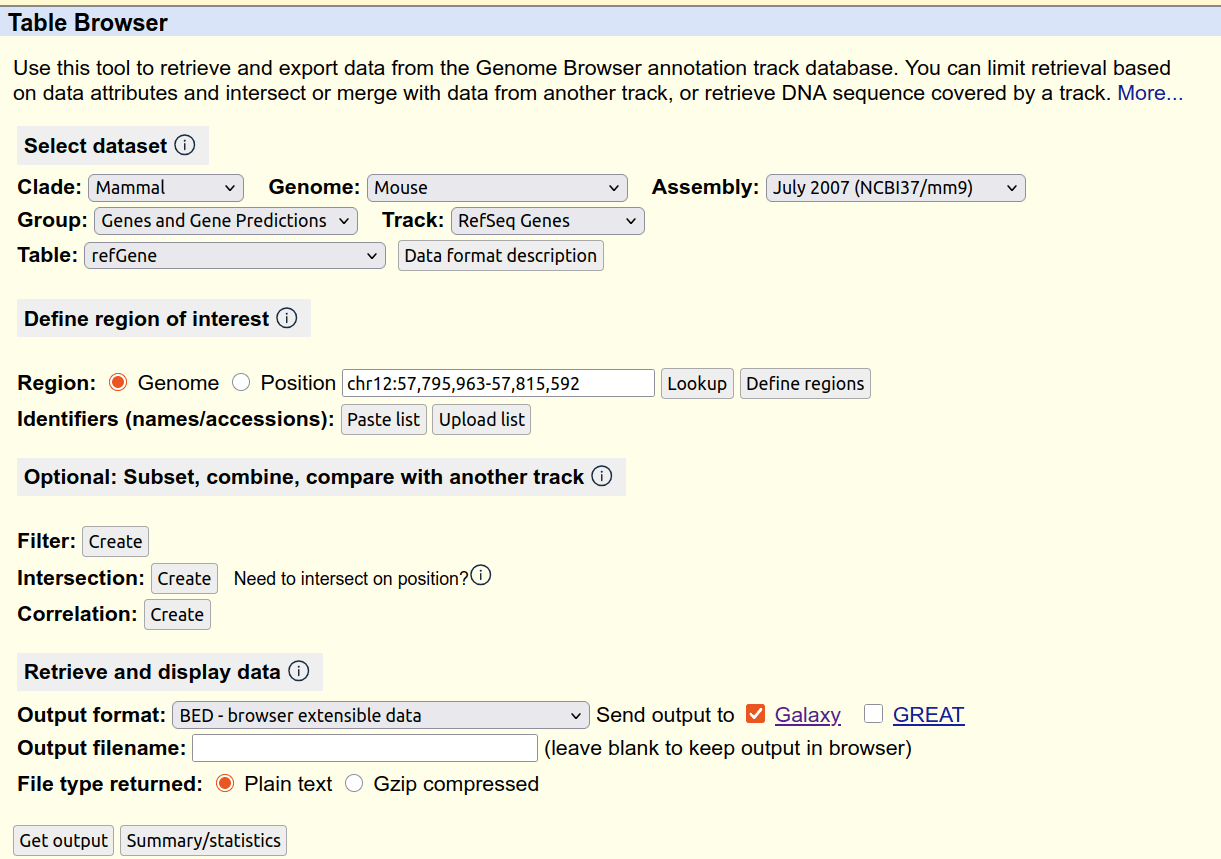
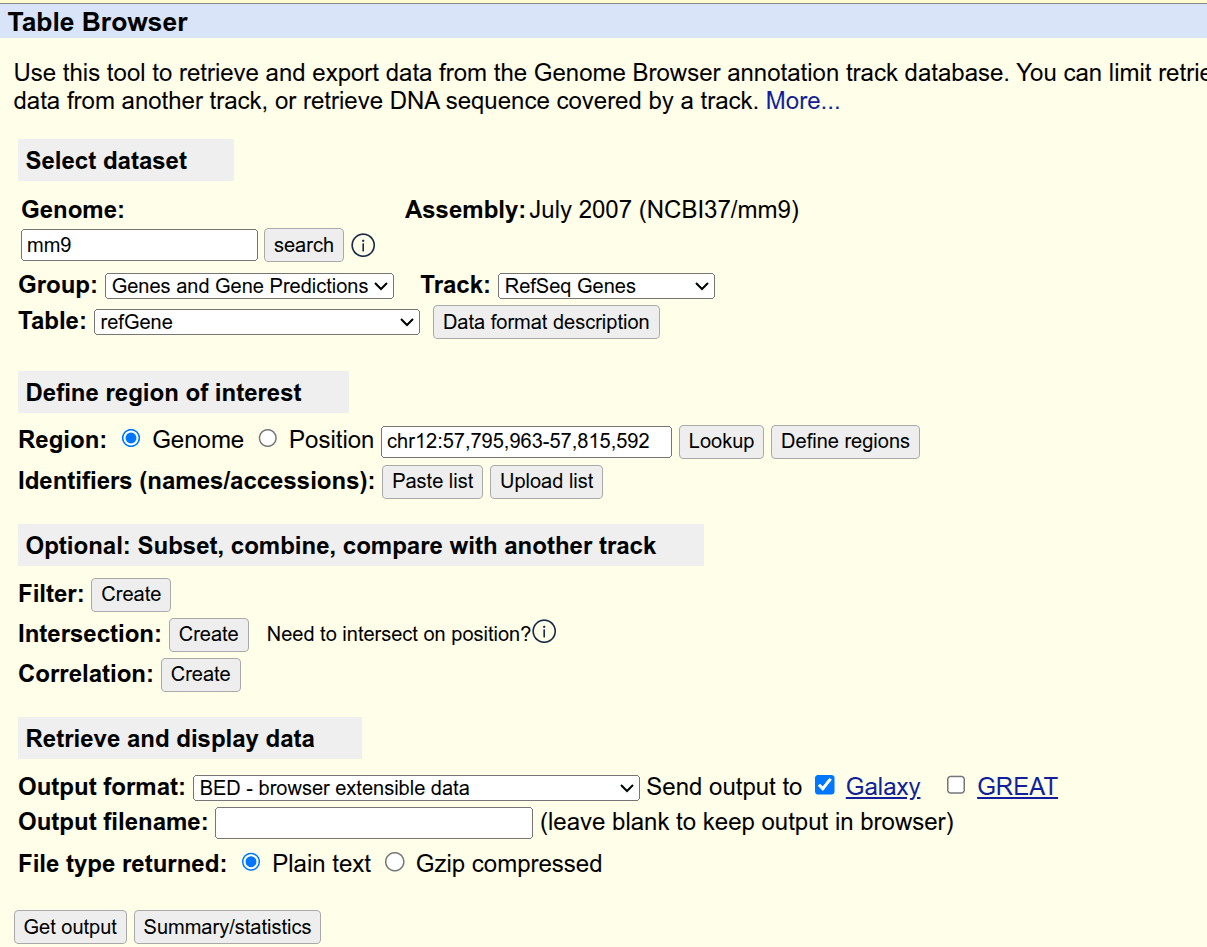
Update peaks2genes tutorial

diff --git a/topics/introduction/tutorials/galaxy-intro-peaks2genes/tutorial.md b/topics/introduction/tutorials/galaxy-intro-peaks2genes/tutorial.md
@@ -61,7 +61,7 @@ recordings:
 ---
 
 
-We stumbled upon a paper ({% cite Li2012 %}) called *"The histone acetyltransferase MOF is a key regulator of the embryonic stem cell core transcriptional network"*. The paper contains the analysis of possible target genes of an interesting protein called Mof. The targets were obtained by ChIP-seq in mice and the raw data is available through [GEO](https://www.ncbi.nlm.nih.gov/geo/query/acc.cgi?acc=GSE37268).
+We stumbled upon a paper ({% cite Li2012 %}) called *"The histone acetyltransferase MOF is a key regulator of the embryonic stem cell core transcriptional network"*. The paper contains the analysis of possible target genes of an interesting protein called Mof. The targets were obtained by ChIP-seq in mice and the raw data is available through [GEO](https://www.ncbi.nlm.nih.gov/geo/query/acc.cgi?acc=GSE37268){:target="_blank"}.
 However, the list of genes is neither in the supplement of the paper, nor part of the GEO submission.
 The closest thing we could find is a file in GEO containing a list of the regions where the signal is significantly enriched (so called *peaks*):
 
@@ -128,7 +128,7 @@ Let's start with a fresh history.
 
 > <hands-on-title>Data upload</hands-on-title>
 >
-> 1. Download the list of peak regions (the file [`GSE37268_mof3.out.hpeak.txt.gz`](https://www.ncbi.nlm.nih.gov/geo/download/?acc=GSE37268&format=file&file=GSE37268%5Fmof3%2Eout%2Ehpeak%2Etxt%2Egz)) from [GEO](https://www.ncbi.nlm.nih.gov/geo/query/acc.cgi?acc=GSE37268) to your computer
+> 1. Download the list of peak regions (the file [GSE37268_mof3.out.hpeak.txt.gz](https://www.ncbi.nlm.nih.gov/geo/download/?acc=GSE37268&format=file&file=GSE37268%5Fmof3%2Eout%2Ehpeak%2Etxt%2Egz)) from [GEO](https://www.ncbi.nlm.nih.gov/geo/query/acc.cgi?acc=GSE37268){:target="_blank"} to your computer
 > 2. Click on the upload button in the upper left of the interface
 >
 >    ![Upload data icon](../../../galaxy-interface/images/upload_button.png)
@@ -215,7 +215,7 @@ we also need a list of genes in mice, which we can obtain from UCSC.
 >
 > 3. Set the following options:
 >     - *"Clade"*: `Mammal`
->     - *"Genome"*: `Mouse`
+>     - *"Genome"*: Search for `mm9` and select `Mouse (mm9)`
 >     - *"Assembly"*: `July 2007 (NCBI37/mm9)`
 >     - *"Group"*: `Genes and Gene Predictions`
 >     - *"Track"*: `RefSeq Genes`
@@ -276,6 +276,10 @@ Let's have a look at our files to see what we actually have here.
 >
 {: .hands_on}
 
+To view both the files side by side for comparision, enable the window manager.
+
+{% snippet faqs/galaxy/features_scratchbook.md %}
+
 > <question-title></question-title>
 >
 > While the file from UCSC has labels for the columns, the peak file does not. Can you guess what the columns stand for?
@@ -331,7 +335,7 @@ In order to convert the chromosome names we have therefore two things to do:
 > <hands-on-title>Adjust chromosome names</hands-on-title>
 >
 > 1. {% tool [Replace Text](toolshed.g2.bx.psu.edu/repos/bgruening/text_processing/tp_replace_in_column/9.5+galaxy2) %} in a specific column with the following settings:
->     - *"File to process"*: our peak file `GSE37268_mof3.out.hpeak.txt.gz`
+>     - *"File to process"*: our peak file `GSE37268_mof3.out.hpeak.txt.gz` ({% icon warning %} careful! select the initial peaks file)
 >     - *"in column"*: `Column: 1`
 >     - *"Find pattern"*: `[0-9]+`
 >
@@ -345,11 +349,12 @@ In order to convert the chromosome names we have therefore two things to do:
 >
 > 3. {% tool [Replace Text](toolshed.g2.bx.psu.edu/repos/bgruening/text_processing/tp_replace_in_column/9.5+galaxy2) %}  : Let's rerun the tool with two more replacements
 >    - *"File to process"*: the output from the last run, `chr prefix added`
->    - *"in column"*: `Column: 1`
 >    - {% icon param-repeat %} Replacement
+>      - *"in column"*: `Column: 1`
 >      - *"Find pattern"*: `chr20`
 >      - *"Replace with"*: `chrX`
 >    - {% icon param-repeat %} Insert Replacement
+>      - *"in column"*: `Column: 1`
 >      - *"Find pattern"*: `chr21`
 >      - *"Replace with"*: `chrY`
 >
@@ -451,8 +456,8 @@ We will group the table by chromosome and count the number of genes with peaks o
 > <hands-on-title>Count genes on different chromosomes</hands-on-title>
 >
 > 1. {% tool [Group](Grouping1) %} data by a column and perform aggregate operation on other columns, with the following settings:
->     - *"Select data"* to the result of the intersection
->     - *"Group by column"*:`Column: 1`
+>     - *"Select data"*: the result of the intersection
+>     - *"Group by column"*: `Column: 1`
 >     - Press **Insert Operation** and choose:
 >         - *"Type"*: `Count`
 >         - *"On column"*: `Column: 1`
@@ -502,8 +507,8 @@ Great, we are ready to plot things!
 > 1. Click on {% icon galaxy-barchart %} (visualize) icon on the output from the **Sort** tool
 > 2. Select `Bar, Line and Scatter` from the main panel
 > 3. Click on the **<<** in the upper right corner
-> 4. Choose a title below **Title**, e.g. `Gene counts per chromosome`
-> 5. Switch to the **Settings** tab and change the axis labels
+> 4. Switch to the **Settings** tab and change the axis labels
+> 5. Choose a title below **Title**, e.g. `Gene counts per chromosome`
 > 6. Play around with the settings in the **Tracks** tab
 > 7. When you are happy, click the {% icon cloud-upload %} icon to **Save** visualization in the top right of the *main panel*
 >
@@ -545,7 +550,7 @@ Galaxy makes this very simple with the `Extract Workflow` option. This means tha
 >
 >    You will get a message that the workflow was created. But where did it go?
 >
-> 6. Click on **Workflow** in the left menu of Galaxy
+> 6. Click on **Workflows** in the left menu of Galaxy
 >
 >    Here you have a list of all your workflows
 >
@@ -575,7 +580,8 @@ Galaxy makes this very simple with the `Extract Workflow` option. This means tha
 >    >
 >    > If you click on this asterisk for any of the output datasets, then *only* files with an asterisk will be shown, and all outputs without an asterisk will be hidden (Note that clicking *all* outputs has the same effect as clicking *none* of the outputs, in both cases all the datasets will be shown).
 >    {: .tip}
->
+> 12. Return to the Galaxy home page by clicking the Galaxy icon in the top-left corner of the page.
+> 
 {: .hands_on}
 
 Now it's time to reuse our workflow for a more sophisticated approach.
@@ -681,7 +687,7 @@ The RefSeq genes we downloaded from UCSC did only contain the RefSeq identifiers
 It's time to reuse the workflow we created earlier.
 
 > <hands-on-title>Run a workflow</hands-on-title>
-> 1. Open the workflow menu (left menu bar)
+> 1. Open the **Workflows** menu (left menu bar)
 > 2. Find the workflow you made in the previous section, and select the option **Run** {% icon workflow-run %}
 > 3. Choose as inputs our `mm9.RefSeq_genes` (`#genes`) BED file and the result of the **Cut** tool (`#peaks`)
 > 4. Click **Run workflow**
@@ -710,10 +716,13 @@ Congratulations! You should have a file with all the unique gene names and a cou
 
 > <question-title></question-title>
 >
-> The list of unique genes is not sorted or you workflow included a sorting step but for the gene names. Try to sort it on your own!
+> Which gene has the most number of peaks? 
 >
 > > <solution-title></solution-title>
-> > You can use the tool "{% tool [Sort](toolshed.g2.bx.psu.edu/repos/bgruening/text_processing/tp_sort_header_tool/9.5+galaxy2) %} data in ascending or descending order" or rerun to sort tool of your workflow. Sort on column 2 and "fast numeric sort".
+> > *Kcnma1*
+> > 
+> > The list of unique genes is not sorted or you workflow included a sorting step but for the gene names. Try to sort it on your own!
+> > You can use the tool "{% tool [Sort](toolshed.g2.bx.psu.edu/repos/bgruening/text_processing/tp_sort_header_tool/9.5+galaxy2) %} data in ascending or descending order" or rerun to sort tool of your workflow. Sort on colum `Column: 2` in `Descending order` with `Fast numeric sort (-n)` flavor.
 > {: .solution }
 {: .question}
 
